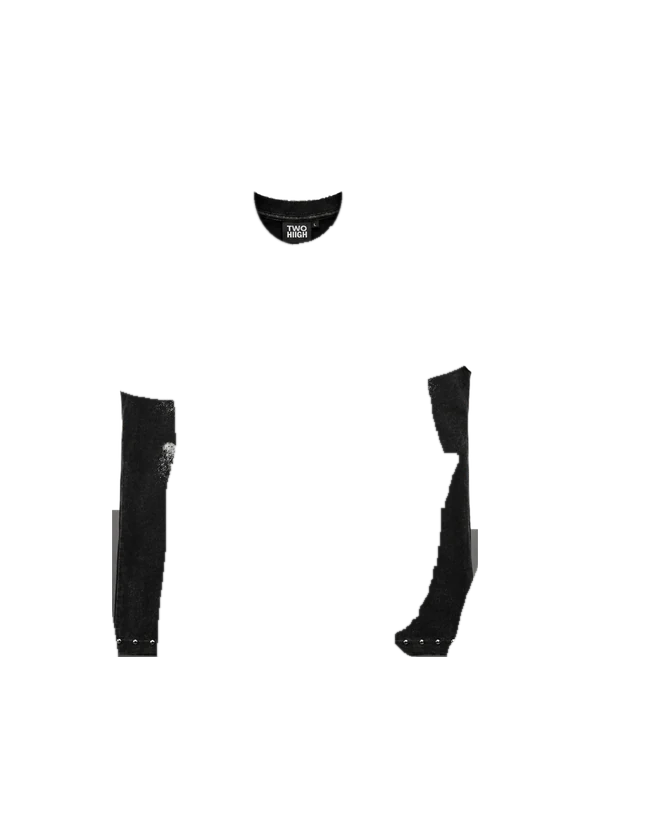
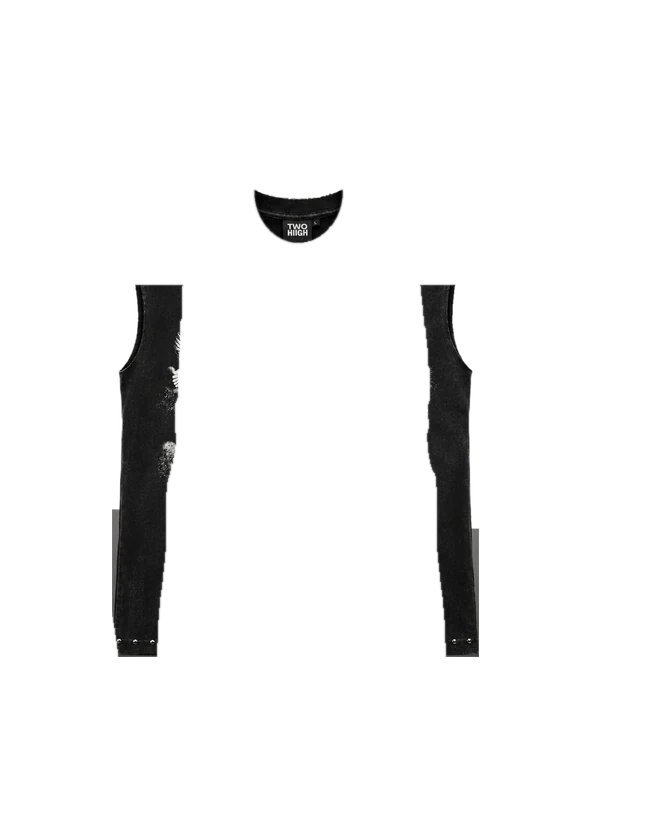
Put the model in a vest with both arms hanging
- Model photo edited: tee sleeves replaced with bare arms (vest), and
  the pocket arm replaced with a mirrored copy of the hanging arm
- All five pieces rebuilt on the new model
- Image URLs versioned (model-vest.webp, tee*.webp?v=3) so browsers
  can't mix old and new layers

diff --git a/index.html b/index.html
@@ -59,29 +59,29 @@
       </div>
 
       <div class="jc__model">
-        <img src="jacket-carousel/assets/model.webp" alt="Model">
+        <img src="jacket-carousel/assets/model-vest.webp" alt="Model">
       </div>
 
       <div class="jc__carousel">
         <div class="jc__item">
-          <img src="jacket-carousel/assets/tee1.webp" alt="Piece 01">
-          <img class="jc__back" src="jacket-carousel/assets/tee1-back.webp" alt="" aria-hidden="true">
+          <img src="jacket-carousel/assets/tee1.webp?v=3" alt="Piece 01">
+          <img class="jc__back" src="jacket-carousel/assets/tee1-back.webp?v=3" alt="" aria-hidden="true">
         </div>
         <div class="jc__item">
-          <img src="jacket-carousel/assets/tee2.webp" alt="Piece 02">
-          <img class="jc__back" src="jacket-carousel/assets/tee2-back.webp" alt="" aria-hidden="true">
+          <img src="jacket-carousel/assets/tee2.webp?v=3" alt="Piece 02">
+          <img class="jc__back" src="jacket-carousel/assets/tee2-back.webp?v=3" alt="" aria-hidden="true">
         </div>
         <div class="jc__item">
-          <img src="jacket-carousel/assets/tee3.webp" alt="Piece 03">
-          <img class="jc__back" src="jacket-carousel/assets/tee3-back.webp" alt="" aria-hidden="true">
+          <img src="jacket-carousel/assets/tee3.webp?v=3" alt="Piece 03">
+          <img class="jc__back" src="jacket-carousel/assets/tee3-back.webp?v=3" alt="" aria-hidden="true">
         </div>
         <div class="jc__item">
-          <img src="jacket-carousel/assets/tee4.webp" alt="Piece 04">
-          <img class="jc__back" src="jacket-carousel/assets/tee4-back.webp" alt="" aria-hidden="true">
+          <img src="jacket-carousel/assets/tee4.webp?v=3" alt="Piece 04">
+          <img class="jc__back" src="jacket-carousel/assets/tee4-back.webp?v=3" alt="" aria-hidden="true">
         </div>
         <div class="jc__item">
-          <img src="jacket-carousel/assets/tee5.webp" alt="Piece 05">
-          <img class="jc__back" src="jacket-carousel/assets/tee5-back.webp" alt="" aria-hidden="true">
+          <img src="jacket-carousel/assets/tee5.webp?v=3" alt="Piece 05">
+          <img class="jc__back" src="jacket-carousel/assets/tee5-back.webp?v=3" alt="" aria-hidden="true">
         </div>
       </div>
 

diff --git a/jacket-carousel/section.html b/jacket-carousel/section.html
@@ -12,29 +12,29 @@
     </div>
 
     <div class="jc__model">
-      <img src="jacket-carousel/assets/model.webp" alt="Model">
+      <img src="jacket-carousel/assets/model-vest.webp" alt="Model">
     </div>
 
     <div class="jc__carousel">
       <div class="jc__item">
-        <img src="jacket-carousel/assets/tee1.webp" alt="Piece 01">
-        <img class="jc__back" src="jacket-carousel/assets/tee1-back.webp" alt="" aria-hidden="true">
+        <img src="jacket-carousel/assets/tee1.webp?v=3" alt="Piece 01">
+        <img class="jc__back" src="jacket-carousel/assets/tee1-back.webp?v=3" alt="" aria-hidden="true">
       </div>
       <div class="jc__item">
-        <img src="jacket-carousel/assets/tee2.webp" alt="Piece 02">
-        <img class="jc__back" src="jacket-carousel/assets/tee2-back.webp" alt="" aria-hidden="true">
+        <img src="jacket-carousel/assets/tee2.webp?v=3" alt="Piece 02">
+        <img class="jc__back" src="jacket-carousel/assets/tee2-back.webp?v=3" alt="" aria-hidden="true">
       </div>
       <div class="jc__item">
-        <img src="jacket-carousel/assets/tee3.webp" alt="Piece 03">
-        <img class="jc__back" src="jacket-carousel/assets/tee3-back.webp" alt="" aria-hidden="true">
+        <img src="jacket-carousel/assets/tee3.webp?v=3" alt="Piece 03">
+        <img class="jc__back" src="jacket-carousel/assets/tee3-back.webp?v=3" alt="" aria-hidden="true">
       </div>
       <div class="jc__item">
-        <img src="jacket-carousel/assets/tee4.webp" alt="Piece 04">
-        <img class="jc__back" src="jacket-carousel/assets/tee4-back.webp" alt="" aria-hidden="true">
+        <img src="jacket-carousel/assets/tee4.webp?v=3" alt="Piece 04">
+        <img class="jc__back" src="jacket-carousel/assets/tee4-back.webp?v=3" alt="" aria-hidden="true">
       </div>
       <div class="jc__item">
-        <img src="jacket-carousel/assets/tee5.webp" alt="Piece 05">
-        <img class="jc__back" src="jacket-carousel/assets/tee5-back.webp" alt="" aria-hidden="true">
+        <img src="jacket-carousel/assets/tee5.webp?v=3" alt="Piece 05">
+        <img class="jc__back" src="jacket-carousel/assets/tee5-back.webp?v=3" alt="" aria-hidden="true">
       </div>
     </div>
 

diff --git a/README.md b/README.md
@@ -13,7 +13,7 @@ jacket-carousel/
   jacket-carousel.css
   jacket-carousel.js
   section.html             ← HTML to paste into your page
-  assets/  model.webp, tee1–5.webp (worn layer), tee1–5-back.webp (back collar + label)
+  assets/  model-vest.webp, tee1–5.webp (worn layer), tee1–5-back.webp (back collar + label)
 index.html                 ← demo page with the carousel and the site nav
 ```
 
